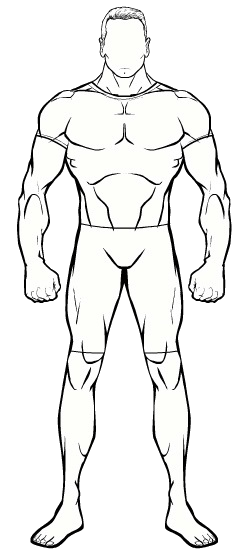
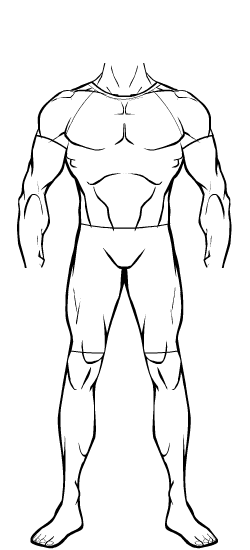
v.0.7.2

diff --git a/src/components/TDG/functions/more/createInitialTDGCharacters.js b/src/components/TDG/functions/more/createInitialTDGCharacters.js
@@ -19,7 +19,7 @@ const createInitialTDGCharacters = () => {
 
     const member_two = createOneTDGCharacter(
         1, 1, cyborg.possibleNickNames[0], cyborg,
-        cyborg.abilities.melee.advanced, cyborg.abilities.armor.basic,
+        cyborg.abilities.melee.advanced, cyborg.abilities.armor.advanced,
         cyborg.abilities.range.advanced, 
         cyborg.abilities.flight.basic,
         commonAbilities.special.basic, commonAbilities.special.basic
@@ -27,7 +27,7 @@ const createInitialTDGCharacters = () => {
 
     const member_three = createOneTDGCharacter(
         2, 1, mutant.possibleNickNames[0], mutant,
-        mutant.abilities.melee.advanced, mutant.abilities.armor.basic,
+        mutant.abilities.melee.advanced, mutant.abilities.armor.advanced,
         commonAbilities.range.basic, 
         mutant.abilities.flight.basic, 
         mutant.abilities.special.basic, mutant.abilities.special.advanced
@@ -35,7 +35,7 @@ const createInitialTDGCharacters = () => {
 
     const member_four = createOneTDGCharacter(
         3, 1, wizard.possibleNickNames[0], wizard,
-        commonAbilities.melee.basic, wizard.abilities.armor.basic,
+        commonAbilities.melee.basic, wizard.abilities.armor.advanced,
         wizard.abilities.range.basic, 
         wizard.abilities.flight.basic, 
         wizard.abilities.special.basic, wizard.abilities.special.advanced

diff --git a/src/components/TDG/squadPage/MemberPage.js b/src/components/TDG/squadPage/MemberPage.js
@@ -1,9 +1,9 @@
 import styles from './MemberPage.module.css';
-import ArmorBlock from './ArmorBlock';
+import ImageBlock from './ImageBlock';
 import InfoBlock from './InfoBlock';
 
 import images from '../../../uploads/images';
-const { standartBody } = images;
+const { standartBody, standartHead } = images;
 
 const MemberPage = ({member}) => {
     const {nick_name, id, armor, melee, range, flying, special, level} = member;
@@ -32,7 +32,12 @@ const MemberPage = ({member}) => {
                 alt='body'
                 title={nick_name}
             />
-            <ArmorBlock armor={armor}/>
+            <ImageBlock image={armor} item={'armor'}/>
+            <img src={standartHead} 
+                className={styles.MemberPage_ImagesBlock_StandartHead}
+                alt='head'
+                title={nick_name}
+            />
         </div>
     </div>
 

diff --git a/src/components/TDG/squadPage/ImageBlock.js b/src/components/TDG/squadPage/ImageBlock.js
@@ -1,0 +1,31 @@
+import styles from './ImageBlock.module.css';
+
+function createImageStyle (title, item) {
+    const style = [styles[item]]; 
+
+    const imageTitle = title.split(' ').join('') + 'Style';
+
+    style.push(styles[imageTitle]);
+
+    return style.join(' ')
+};
+
+const ImageBlock = ({image, item}) => {
+    if (ImageBlock[image.title]) {
+        return ImageBlock[image.title];
+    };
+    
+    console.log('rendering ImageBlock', image.title);
+
+    ImageBlock[image.title] = <img src={image.image}
+            className={createImageStyle(image.title, item)}
+            alt={image.title}
+            title={image.title}
+        />
+
+    return (
+        ImageBlock[image.title]
+    )
+};
+
+export default ImageBlock;

diff --git a/src/uploads/images.js b/src/uploads/images.js
@@ -4,6 +4,7 @@ import normalItems from './TDG/normalItems/normalItems';
 import cyborgDetails from './TDG/cyborgDetails/cyborgDetails';
 import noImage from './TDG/noImage.jpg';
 import standartBody from './TDG/standartBody.png';
+import standartHead from './TDG/standartHead.png';
 import wizardSpells from './TDG/wizardSpells/wizardSpells';
 import mutantEvolvings from './TDG/mutantEvolvings/mutantEvolvings';
 import psionInsights from './TDG/psionInsights/psionInsights';
@@ -19,7 +20,8 @@ const images = {
     psionInsights,
     guildianLearnings,
     noImage,
-    standartBody
+    standartBody,
+    standartHead
 };
 
 export default images;

diff --git a/src/components/TDG/squadPage/ImageBlock.module.css b/src/components/TDG/squadPage/ImageBlock.module.css
@@ -13,6 +13,7 @@
 }
 
 .LeatherArmorStyle {
+    left: 80px;
     top: 50px;
 }
 
@@ -42,13 +43,17 @@
     left: 7px;
 }
 
-.DefensiveCharmsStyle {
+.DefensiveCharmsStyle, .DefensiveRunesStyle {
     top: -40px;
     width: 82px;
     left: 116px;
 }
 
-.GuardianAuraStyle {
+.DefensiveCharmsStyle {
+    z-index: 4;
+}
+
+.GuardianAuraStyle, .GuardianFieldStyle {
     top: 42px;
     width: 190px;
     left: 65px;

diff --git a/src/components/TDG/squadPage/MemberPage.module.css b/src/components/TDG/squadPage/MemberPage.module.css
@@ -16,6 +16,15 @@
 }
 
 .MemberPage_ImagesBlock_StandartBody {
+    position: relative;
     width: 200px;
     z-index: 1;
+}
+
+.MemberPage_ImagesBlock_StandartHead {
+    position: absolute;
+    left: 125px;
+    top: -2px;
+    width: 68px;
+    z-index: 3;
 }
